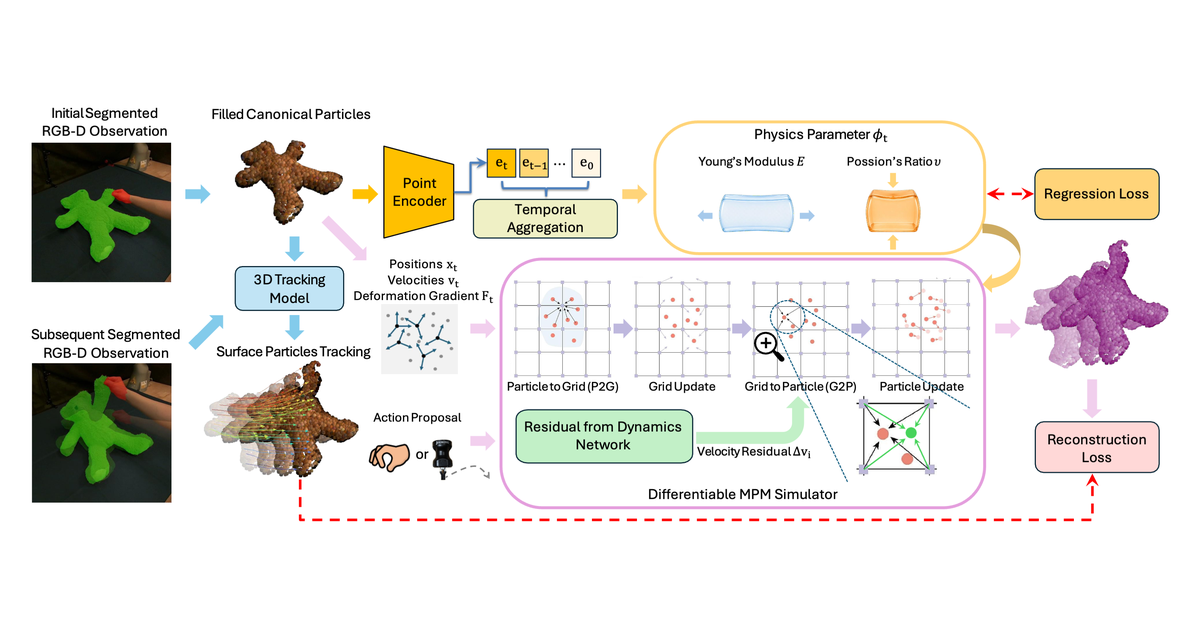
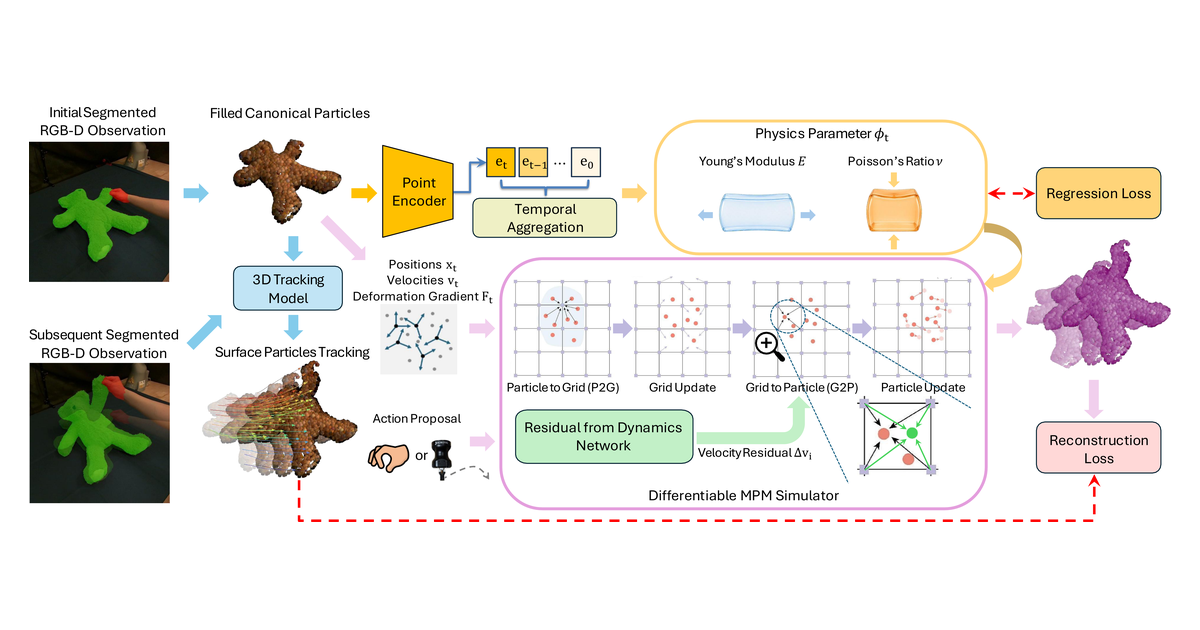
fix pipeline figure typo

diff --git a/index.html b/index.html
@@ -115,7 +115,7 @@
 <section class="hero teaser">
   <div class="container is-max-desktop">
     <div class="hero-body">
-      <img src="./static/images/pipeline.png" width="3148" height="1173"
+      <img src="./static/images/pipeline.png" width="2060" height="759"
            alt="PhysCoRe pipeline: a differentiable MPM simulator coupled with the Material from Motion (MfM) and Residual from Dynamics (RfD) modules."
            class="teaser-figure">
     </div>
